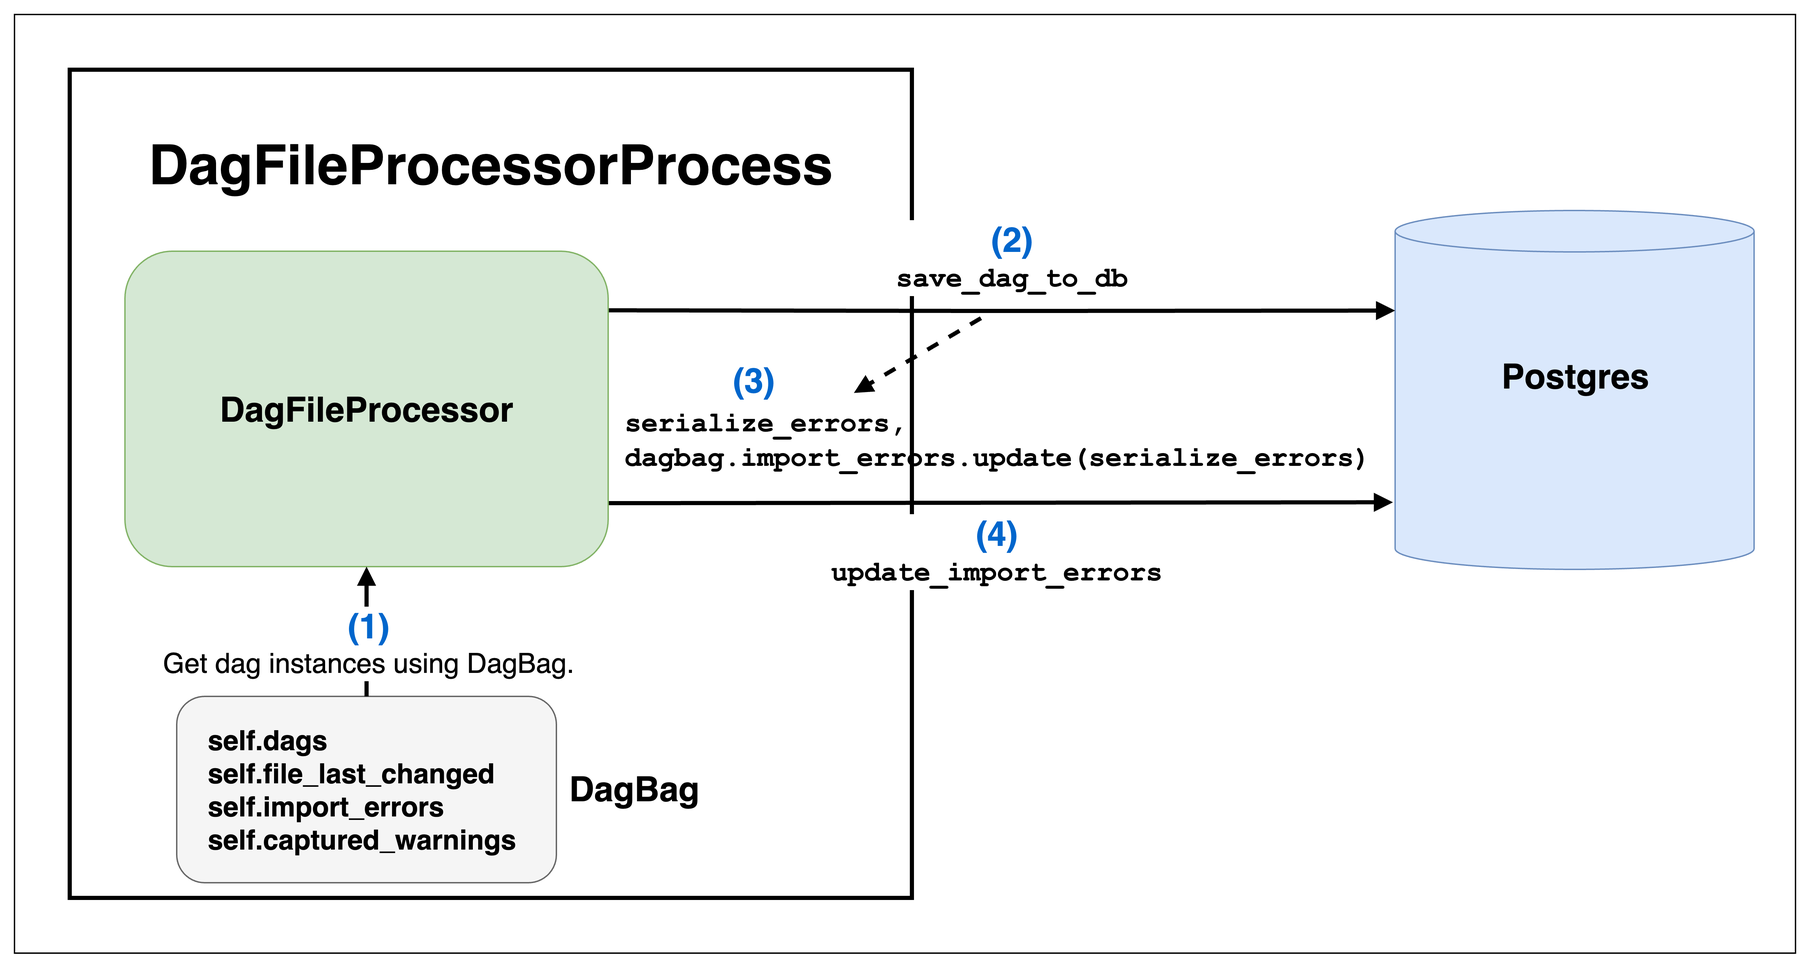
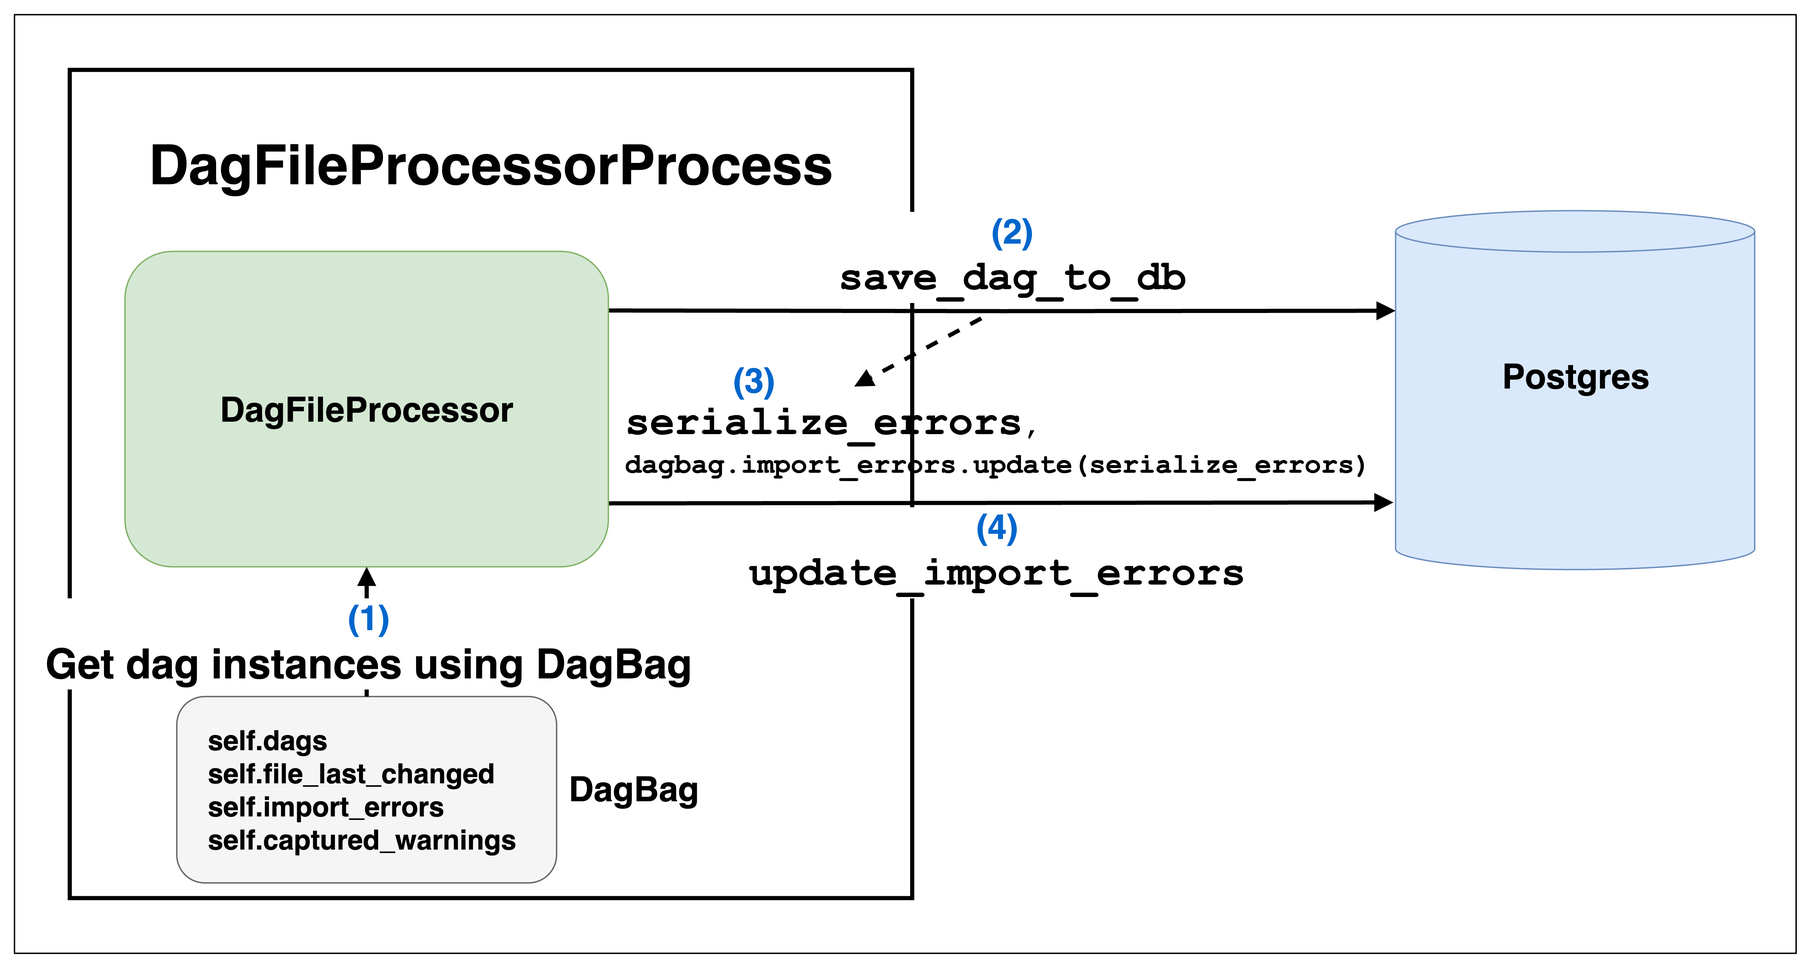
Add dag-processing-apache-airflow
Fix build error

Simplify manager diagram

diff --git a/content/open-source-contribution/2025-07-20-dag-processing-in-apache-airflow/index.en.md b/content/open-source-contribution/2025-07-20-dag-processing-in-apache-airflow/index.en.md
@@ -1,7 +1,7 @@
 ---
-title: "2025 07 20 Dag Processing in Apache Airflow"
-summary: ""
-description: ""
+title: "Deep Dive into Apache Airflow's Dag Processing Mechanism"
+summary: "This article provides an in-depth exploration of Airflow 2's Dag Processing mechanism and summarizes best practices related to Dag Processing."
+description: "This article provides an in-depth exploration of Airflow 2's Dag Processing mechanism and summarizes best practices related to Dag Processing."
 date: 2025-07-20T10:39:02+08:00
 slug: "dag-processing-in-apache-airflow"
 tags: ["blog","en","open-source-contribution","data-engineering"]
@@ -17,6 +17,7 @@ draft: false
 
 {{< alert "circle-info">}}
 
+
 [**OpenSource4You**](https://www.facebook.com/opensource4you) is a community actively contributing to large-scale open source software projects in Taiwan.  
 I will be hosting the **Airflow Mandarin Meeting** at the following time and location:
 
@@ -27,4 +28,237 @@ I will be hosting the **Airflow Mandarin Meeting** at the following time and loc
 If you're interested in Airflow's latest technical developments or contributing to Airflow itself.  
 Welcome to join our Airflow meetings!
 
+
 {{< /alert >}}
+
+
+## How Are Python-Written Dag Files Parsed by Airflow?
+
+This article provides an in-depth exploration of Airflow **2**'s Dag Processing mechanism.  
+Airflow **3** involves core details of [AIP-72 TaskSDK](https://cwiki.apache.org/confluence/display/AIRFLOW/Test+cases+AIP-72+Task+Execution+Interface+aka+Task+SDK).  
+So we'll focus on Airflow **2**'s Dag Processing mechanism for simplicity!
+
+Whether it's Airflow 2 or 3, both involve the following core concepts:
+- `DagFileProcessorManager`  
+- `DagFileProcessorProcess`  
+- `DagBag`  
+
+Next, we'll explain these concepts from an overall perspective,  
+then dive deeper into the details of each core concept,  
+and finally summarize the Airflow Dag Processing workflow and best practices.
+
+## Overview of Dag Processing Mechanism
+
+> ![dag-parsing-in-high-level](dag-parsing-in-high-level.png)
+> The above diagram shows the high-level architecture of Airflow 2's Dag Processing mechanism
+
+Here's an introduction to each component:
+- **DagProcessor**:
+  - This is the component name from the perspective of **the entire Airflow system**
+- **DagFileProcessorManager**:
+  - This is the code-level implementation of DagProcessor and serves as the core manager of Dag Processing
+  - Uses a **queue** to manage Dag File parsing
+- **DagFileProcessorProcess**:
+  - This is a worker process forked by DagFileProcessorManager
+  - Responsible for parsing **individual file paths**
+  - And synchronizing Dags and error messages to the Metadata DB
+- **DagBag**:
+  - The actual interface for interacting with Dag Files
+  - Returns actual Dag instances
+
+The overall Dag Processing workflow is as follows:
+1. Dag File paths to be parsed are placed into the `DagFileProcessorManager`'s queue
+2. & 3. `DagFileProcessorManager` forks `DagFileProcessorProcess` subprocesses and stores them within `DagFileProcessorManager`
+4. `DagFileProcessorProcess` obtains Dag instances and error messages through `DagBag`
+5. `DagFileProcessorProcess` synchronizes Dag instances and error messages to the Metadata DB
+
+## DagFileProcessorManager
+
+![dag-file-processor-manager](dag-file-processor-manager.png)
+
+**[_run_parsing_loop](https://github.com/apache/airflow/blob/b3a3591c946326467cf9c54115b9b514d89e7645/airflow/dag_processing/manager.py#L555) is the core of the entire Manager**
+
+- The Manager tracks Dag File status with these 3 attributes: `_file_paths`, `_file_path_queue`, `_file_stats`
+    - [self._file_paths: list[str]](https://github.com/apache/airflow/blob/b3a3591c946326467cf9c54115b9b514d89e7645/airflow/dag_processing/manager.py#L381) records all Dag File paths
+    - [self._file_path_queue: deque[str]](https://github.com/apache/airflow/blob/b3a3591c946326467cf9c54115b9b514d89e7645/airflow/dag_processing/manager.py#L382-L383) records which Dag File paths still need to be parsed
+    - [self._file_stats: dict[str, DagFileStat]](https://github.com/apache/airflow/blob/b3a3591c946326467cf9c54115b9b514d89e7645/airflow/dag_processing/manager.py#L425) records the status of each Dag File
+        - Including `num_dags: int`, `import_errors: int`, `last_finish_time: datetime | None`, `last_duration: timedelta | None`, `run_count: int`, `last_num_of_db_queries: int`, etc.
+- And manages `DagFileProcessorProcess` instances with the following attributes:
+    - [self.waitables](https://github.com/apache/airflow/blob/b3a3591c946326467cf9c54115b9b514d89e7645/airflow/dag_processing/manager.py#L447) to track all active processes or connections
+    - [self._processors: dict[str, DagFileProcessorProcess]](https://github.com/apache/airflow/blob/b3a3591c946326467cf9c54115b9b514d89e7645/airflow/dag_processing/manager.py#L420) to record the process corresponding to each Dag File
+- Also provides [def set_file_paths(self, new_file_paths: list[str]):](https://github.com/apache/airflow/blob/b3a3591c946326467cf9c54115b9b514d89e7645/airflow/dag_processing/manager.py#L1094) to:
+    1. Update the aforementioned `self._file_paths`, `self._file_path_queue`, `self._file_stats` 
+    2. Terminate DagFileProcessorProcess instances that are processing "deleted files"
+        - [processor.terminate()](https://github.com/apache/airflow/blob/b3a3591c946326467cf9c54115b9b514d89e7645/airflow/dag_processing/manager.py#L1119)
+        - [self._file_stats.pop(file_path)](https://github.com/apache/airflow/blob/b3a3591c946326467cf9c54115b9b514d89e7645/airflow/dag_processing/manager.py#L1120)
+
+**In each loop, the following tasks are performed**: Only listing the steps most relevant to Dag parsing
+
+1. [self._refresh_dag_dir()](https://github.com/apache/airflow/blob/b3a3591c946326467cf9c54115b9b514d89e7645/airflow/dag_processing/manager.py#L562)
+    1. Updates the time difference since the last refresh, and only re-reads the Dag Directory if it's greater than the `[scheduler/dag_dir_list_interval]` setting [dag_filelocs = {full_loc for path in self._file_paths for full_loc in _iter_dag_filelocs(path)}](https://github.com/apache/airflow/blob/b3a3591c946326467cf9c54115b9b514d89e7645/airflow/dag_processing/manager.py#L852)]
+    2. Finally removes "Dags of deleted files" from the Metadata DB [SerializedDagModel.remove_deleted_dags](https://github.com/apache/airflow/blob/b3a3591c946326467cf9c54115b9b514d89e7645/airflow/dag_processing/manager.py#L856)
+2. [self.prepare_file_path_queue()](https://github.com/apache/airflow/blob/b3a3591c946326467cf9c54115b9b514d89e7645/airflow/dag_processing/manager.py#L640)
+    1. If it detects "files have been deleted", it also updates `self._file_paths`, `self._file_path_queue`, `self._file_stats` through the previously mentioned [set_file_paths](https://github.com/apache/airflow/blob/b3a3591c946326467cf9c54115b9b514d89e7645/airflow/dag_processing/manager.py#L1094)
+    2. Then adds Dag File paths **excluding** the union of [file_paths_in_progress = set(self._processors)](https://github.com/apache/airflow/blob/b3a3591c946326467cf9c54115b9b514d89e7645/airflow/dag_processing/manager.py#L1271), [file_paths_recently_processed](https://github.com/apache/airflow/blob/b3a3591c946326467cf9c54115b9b514d89e7645/airflow/dag_processing/manager.py#L1307) and [files_paths_at_run_limit](https://github.com/apache/airflow/blob/b3a3591c946326467cf9c54115b9b514d89e7645/airflow/dag_processing/manager.py#L1324) to `self._file_path_queue`
+3. [self.start_new_processes()](https://github.com/apache/airflow/blob/b3a3591c946326467cf9c54115b9b514d89e7645/airflow/dag_processing/manager.py#L651)
+    - Within the `[dag_processor/parsing_processes]` limit [while self._parallelism > len(self._processors) and self._file_path_queue:](https://github.com/apache/airflow/blob/b3a3591c946326467cf9c54115b9b514d89e7645/airflow/dag_processing/manager.py#L1217)
+    - Starts a `DagFileProcessorProcess` for each Dag File to parse [processor = self._create_process(](https://github.com/apache/airflow/blob/b3a3591c946326467cf9c54115b9b514d89e7645/airflow/dag_processing/manager.py#L1224)
+    - And adds the `DagFileProcessorProcess` instance to [self.waitables](https://github.com/apache/airflow/blob/b3a3591c946326467cf9c54115b9b514d89e7645/airflow/dag_processing/manager.py#L447) and [self._processors](https://github.com/apache/airflow/blob/b3a3591c946326467cf9c54115b9b514d89e7645/airflow/dag_processing/manager.py#L420)
+      - [self._processors[file_path] = processor](https://github.com/apache/airflow/blob/b3a3591c946326467cf9c54115b9b514d89e7645/airflow/dag_processing/manager.py#L1243)
+      - [self.waitables[processor.waitable_handle] = processor](https://github.com/apache/airflow/blob/b3a3591c946326467cf9c54115b9b514d89e7645/airflow/dag_processing/manager.py#L1244)
+4. [self.collect_results()](https://github.com/apache/airflow/blob/b3a3591c946326467cf9c54115b9b514d89e7645/airflow/dag_processing/manager.py#L667)
+    - Waits for results from multiple `DagFileProcessorProcess` instances and updates them to `self._file_stats`
+    - Also cleans up completed processes from `self.waitables` and `self._processors`
+    - ```python
+      ready = multiprocessing.connection.wait(
+          self.waitables.keys() - [self._direct_scheduler_conn], timeout=0
+      )
+
+      for sentinel in ready:
+          if sentinel is not self._direct_scheduler_conn:
+              processor = cast(DagFileProcessorProcess, self.waitables[sentinel])
+              self.waitables.pop(processor.waitable_handle)
+              self._processors.pop(processor.file_path)
+              self._collect_results_from_processor(processor)
+      ```
+
+## DagFileProcessorProcess
+
+![dag-file-processor-process](dag-file-processor-process.png)
+          
+**`DagFileProcessorProcess` uses [DagBag](#dagbag) to get the parsed Dags results for that path**
+
+- [_run_file_processor](https://github.com/apache/airflow/blob/b3a3591c946326467cf9c54115b9b514d89e7645/airflow/dag_processing/processor.py#L248) is the actual target function of `DagFileProcessorProcess`
+    - Mainly executes [dag_file_processor.process_file](https://github.com/apache/airflow/blob/b3a3591c946326467cf9c54115b9b514d89e7645/airflow/dag_processing/processor.py#L188) and returns `tuple[number of dags found, count of import errors, last number of db queries]` as `self._result`
+      1. First gets DagBag with `file_path` [dagbag = DagFileProcessor._get_dagbag(file_path)](https://github.com/apache/airflow/blob/b3a3591c946326467cf9c54115b9b514d89e7645/airflow/dag_processing/processor.py#L918)
+        - The `_get_dagbag` method simply constructs a DagBag [DagBag(file_path, include_examples=False)](https://github.com/apache/airflow/blob/b3a3591c946326467cf9c54115b9b514d89e7645/airflow/dag_processing/processor.py#L882)
+        - For details about DagBag, refer to the [DagBag](#dagbag) section
+      2. Synchronizes all Dags obtained through DagBag to the Metadata DB [serialize_errors = DagFileProcessor.save_dag_to_db(dags=dagbag.dags, dag_directory=self._dag_directory, pickle_dags=False)](https://github.com/apache/airflow/blob/b3a3591c946326467cf9c54115b9b514d89e7645/airflow/dag_processing/processor.py#L976)
+        - [DagBag.sync_to_db](https://github.com/apache/airflow/blob/b3a3591c946326467cf9c54115b9b514d89e7645/airflow/models/dagbag.py#L736)
+            - [Dag.bulk_write_to_db](https://github.com/apache/airflow/blob/b3a3591c946326467cf9c54115b9b514d89e7645/airflow/models/dagbag.py#L724)
+      3. Updates the `serialize_errors` from the previous step to `import_errors` [DagFileProcessor.update_import_errors(file_last_changed=dagbag.file_last_changed, import_errors=dagbag.import_errors, processor_subdir=self._dag_directory, )](https://github.com/apache/airflow/blob/b3a3591c946326467cf9c54115b9b514d89e7645/airflow/dag_processing/processor.py#L952-L956)
+      4. Finally updates Dag warnings [self.update_dag_warnings(dagbag=dagbag)](https://github.com/apache/airflow/blob/b3a3591c946326467cf9c54115b9b514d89e7645/airflow/dag_processing/processor.py#L962)
+        > Here we can also see that the lifecycle of import errors or Dag warnings in the UI is handled by DagFileProcessorProcess!    
+
+## DagBag
+
+![dag-bag](dag-bag.png)
+
+- `DagBag` is Airflow's internal interface for finally reading Dag Files
+  - Whether it's the Dag Processor writing Dags to the Metadata DB
+  - Or the Scheduler or API Server reading Dags
+  - All go through `DagBag` to handle it, and `DagBag`'s constructor has a [read_dags_from_db: bool](https://github.com/apache/airflow/blob/b3a3591c946326467cf9c54115b9b514d89e7645/airflow/models/dagbag.py#L129) option
+    - For the Dag Processor: `read_dags_from_db` is always set to `False`, because the Dag Processor indeed needs to read Dags from Dag Files to synchronize Dag status
+    - But for the Scheduler or API Server: `read_dags_from_db` is set to `True`, which ensures that Dags read in different deployments are consistent
+  - And provides the following attributes for other Airflow components to use:
+    1. [self.dags: dict[str, Dag]](https://github.com/apache/airflow/blob/b3a3591c946326467cf9c54115b9b514d89e7645/airflow/models/dagbag.py#L158) 
+    2. [self.file_last_changed: dict[str, datetime]](https://github.com/apache/airflow/blob/b3a3591c946326467cf9c54115b9b514d89e7645/airflow/models/dagbag.py#L160)
+    3. [self.import_errors: dict[str, str]](https://github.com/apache/airflow/blob/b3a3591c946326467cf9c54115b9b514d89e7645/airflow/models/dagbag.py#L161)
+    4. [self.captured_warnings: dict[str, tuple[str, ...]]](https://github.com/apache/airflow/blob/b3a3591c946326467cf9c54115b9b514d89e7645/airflow/models/dagbag.py#L162)
+- [collect_dags](https://github.com/apache/airflow/blob/b3a3591c946326467cf9c54115b9b514d89e7645/airflow/models/dagbag.py#L566) is the entry point for getting Dag instances from Dag Files
+    - Reads from `.py` files [self._load_modules_from_file](https://github.com/apache/airflow/blob/7654e1a49b074d5dc06dd1218369399430dfcfc9/airflow-core/src/airflow/models/dagbag.py#L335)
+    - Or reads from `.zip` archives [self._load_modules_from_zip](https://github.com/apache/airflow/blob/7654e1a49b074d5dc06dd1218369399430dfcfc9/airflow-core/src/airflow/models/dagbag.py#L337)
+    - [self._process_modules](https://github.com/apache/airflow/blob/7654e1a49b074d5dc06dd1218369399430dfcfc9/airflow-core/src/airflow/models/dagbag.py#L348)
+        - After actually reading modules from Python files, gets Dag instances with `isinstance(o, (Dag, SDKDag))`
+        - `top_level_dags = {(o, m) for m in mods for o in m.__dict__.values() if isinstance(o, (Dag, SDKDag))}`
+        - And uses [self.bag_dag](https://github.com/apache/airflow/blob/7654e1a49b074d5dc06dd1218369399430dfcfc9/airflow-core/src/airflow/models/dagbag.py#L538) to check if the Dag is valid
+            1. Whether there are cycles
+            2. Dag policies
+            3. Whether there are duplicate Dag IDs
+            4. Only adds to the DagBag if everything is fine [self.dags[dag.dag_id] = dag](https://github.com/apache/airflow/blob/7654e1a49b074d5dc06dd1218369399430dfcfc9/airflow-core/src/airflow/models/dagbag.py#L591)
+
+## Summary: Best Practices Related to Dag Processing
+
+Through this article, we can understand the relationship between `DagFileProcessorManager`, `DagFileProcessorProcess`, and `DagBag`.  
+Here are several key points I think are worth noting:
+
+1. **`DagFileProcessorManager` manages all Dag File paths to be parsed using a queue**
+  - Acts as a dispatcher and manages all `DagFileProcessorProcess` subprocesses
+2. **Each file path is handled by one `DagFileProcessorProcess`**: 
+  - This process gets Dag instances and error messages through `DagBag`
+  - And synchronizes this information to the Metadata DB
+3. **`DagBag` is the final interface for getting Dag instances**: Whether Read-Only or Read-Write, all go through `DagBag` to obtain them
+
+### Best Practices for Generating Large Numbers of Dags Through Dynamic Dags
+
+Suppose there's **one Python file** with only one Dynamic Dag that reads `config.yaml`  
+And through `config.yaml`, it generates **1,000** different Dags  
+> `config.yaml` can be any external state, like `xxx.json`  
+> Or a list generated by code, like a `for` loop  
+
+`config.yaml`:
+```yaml
+customer_list:
+- name: Facebook
+  config: 300
+- name: Apple
+  config: 200
+... 
+```
+
+`single_dynamic_dag.py`:
+```python
+with open("config.yaml", 'r') as f:
+  customers = yaml.safe_load(f)
+
+for customer in customers:
+
+    @dag(
+      dag_id=f"{customer}_dag",
+      start_date=datetime(2022, 2, 1)
+    )
+    def dynamic_generated_dag():
+        @task
+        def print_message(message):
+            print(message)
+    
+    dynamic_generated_dag()
+```
+
+This approach causes  
+these **1,000** Dag instances to be processed by only **1** `DagFileProcessorProcess`  
+This is one of the reasons why **some Dags occasionally disappear suddenly** when using Dynamic Dags **to generate large numbers of Dags** in a **single Python file**  
+
+![partition-parsing](partition-parsing.png)
+
+To avoid this problem  
+simply use a **partition** approach
+
+For example:  
+Add **grouping** concepts to `config.yaml` and add some identical Python files  
+to let different `DagFileProcessorProcess` instances handle different groups  
+> Of course, you need another `source_dag.py` and `partition.yaml` configuration to maintain a single source of truth  
+> And let the CI/CD pipeline automatically generate these grouped Dag Files  
+
+`config.yaml` with partition:
+```yaml
+group_0:
+- name: Facebook
+  config: 300
+group_1:
+- name: Apple
+  config: 200
+```
+
+`group_0.py`:
+```python
+# get the current group name from the file path
+current_file_name = os.path.basename(__file__)
+current_group = current_file_name.split('.')[0]
+
+# only import the customers for the current group
+with open("config.yaml", 'r') as f:
+  customers = yaml.safe_load(f)[current_group]
+
+# generate the Dags for the current group
+for customer in customers:
+    @dag(
+      dag_id=f"{current_group}_{customer}_dag",
+      start_date=datetime(2022, 2, 1)
+    )
+    def dynamic_generated_dag():
+        @task
+        def print_message(message):
+            print(message)
+    dynamic_generated_dag()
+```

diff --git a/content/note/2023-02-11-csie-freshman-first-semester/index.en.md b/content/note/2023-02-11-csie-freshman-first-semester/index.en.md
@@ -184,7 +184,6 @@ So I ended up being a core member teaching `Flutter`.
 (Joined the `Flutter` group at the time)
 
 > [Flutter Tutorial 的 repository](github.com/jason810496/FlutterToturial)
-{{< github repo="jason810496/FlutterToturial" >}}
 
 At the beginning of the semester, there wasn't much pressure from courses.
 Feeling a bit idle, I joined additional groups:
@@ -258,7 +257,6 @@ The exams are over 100 points, which can be tough for beginners.
 > But the professor is quite nice, giving a square root times 10 boost for scores below 60.
 
 > [程式設計（一）的 repository](https://github.com/jason810496/CKJudge)
-{{< github repo="jason810496/CKJudge" >}}
 
 Since I had prior experience with `C`, the homework was manageable.  
 Ended up passing with 100 points.  
@@ -281,7 +279,6 @@ For Mac M1 users, you had to set up a Windows VM to complete `WinForm` assignmen
 The midterm exam was an on-site exam, similar to the `WinForm` assignments.  
 
 > [視窗程式設計的 repository](https://github.com/jason810496/Window-Programming)
-{{< github repo="jason810496/Window-Programming" >}}
 
 **Mid-Course**
 
@@ -290,7 +287,6 @@ If you didn't follow the TA closely, it was hard to understand the operations.
 After about 3 weeks of instruction, we had to create a game with quite a few features.  
 
 > [Legend of Viking](https://github.com/jason810496/Legend-of-Viking)
-{{< github repo="jason810496/Legend-of-Viking" >}}
 （ Big project of Unity 3D ）
 
 [Github Page Demo](https://jason810496.github.io/Legend-of-Viking/)
@@ -312,7 +308,6 @@ Just used these to build it ouo.
 
 Result:  
 > [Live Share IDE 的 repository](github.com/jason810496/Live-Share-IDE)
-{{< github repo="jason810496/Live-Share-IDE" >}}
 
 {{< youtubeLite id="9qjtwq9A4FM" label="Live Share IDE Demo" >}}
 (Looks similar to `VSCode` interface but natively supports a chatroom)

diff --git a/content/note/2023-02-11-csie-freshman-first-semester/index.zh-tw.md b/content/note/2023-02-11-csie-freshman-first-semester/index.zh-tw.md
@@ -190,7 +190,6 @@ draft: false
 ( 當時剛好加入 `Flutter` 組 ) <br>
 
 > [Flutter Tutorial 的 repository](github.com/jason810496/FlutterToturial)
-{{< github repo="jason810496/FlutterToturial" >}}
 
 
 在學期初課程都還沒什麼壓力 <br>
@@ -270,7 +269,6 @@ draft: false
 
 
 > [程式設計（一）的 repository](https://github.com/jason810496/CKJudge)
-{{< github repo="jason810496/CKJudge" >}}
 
 因為之前有 `C` 的經驗，所以作業都算還好 <br>
 最後 100 分過 <br>
@@ -294,7 +292,6 @@ draft: false
 期中考是上機考，不過也是刻 `WinForm` 跟作業差不多 <br>
 
 > [視窗程式設計的 repository](https://github.com/jason810496/Window-Programming)
-{{< github repo="jason810496/Window-Programming" >}}
 
 **課程中期**
 
@@ -303,7 +300,6 @@ draft: false
 然後教大概 3 週後，就要做一個包含蠻多 features 的遊戲 <br>
 
 > [Legend of Viking](https://github.com/jason810496/Legend-of-Viking)
-{{< github repo="jason810496/Legend-of-Viking" >}}
 （ Unity 大作業 repository ）
 
 [Github Page Demo](https://jason810496.github.io/Legend-of-Viking/)
@@ -327,7 +323,6 @@ Tech stack：
 
 成果：
 > [Live Share IDE 的 repository](github.com/jason810496/Live-Share-IDE)
-{{< github repo="jason810496/Live-Share-IDE" >}}
 
 {{< youtubeLite id="9qjtwq9A4FM" label="Live Share IDE Demo" >}}
 

diff --git a/content/open-source-contribution/2025-07-20-dag-processing-in-apache-airflow/index.zh-tw.md b/content/open-source-contribution/2025-07-20-dag-processing-in-apache-airflow/index.zh-tw.md
@@ -1,7 +1,7 @@
 ---
 title: "深入研究 Apache Airflow 的 Dag Processing 機制"
-summary: "本篇文章會深入研究 Airflow 2 的 Dag Processing 機制，並總結與 Dag Processing 有關的最佳實踐。"
-description: "本篇文章會深入研究 Airflow 2 的 Dag Processing 機制，並總結與 Dag Processing 有關的最佳實踐。"
+summary: "本篇文章會深入研究 Airflow 2 的 Dag Processing 機制，並總結與 Dag Processing 有關的最佳實踐"
+description: "本篇文章會深入研究 Airflow 2 的 Dag Processing 機制，並總結與 Dag Processing 有關的最佳實踐"
 date: 2025-07-20T10:39:02+08:00
 slug: "dag-processing-in-apache-airflow"
 tags: ["blog","zh-tw","open-source-contribution","data-engineering"]
@@ -17,6 +17,7 @@ draft: false
 
 {{< alert "circle-info">}}
 
+
 [**源來是你**](https://www.facebook.com/opensource4you) 是在台灣積極貢獻大型開與軟體的社群  
 接下來我會在以下時間地點主持 **Airflow 中文會議**
 
@@ -28,7 +29,9 @@ draft: false
 如果你也對 Airflow 的技術新知或對貢獻 Airflow 本身感興趣  
 歡迎來 Airflow 會議共襄盛舉！
 
+
 {{< /alert >}}
+
 
 ## Python 撰寫的 Dag File 是如何被 Airflow 解析的？
 
